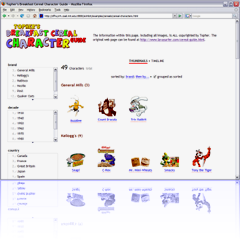
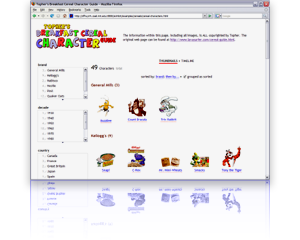
Updated home page. Better shadows and reflections.

diff --git a/src/webapp/index.html b/src/webapp/index.html
@@ -18,7 +18,6 @@
             cursor:         pointer;
         }
         p.example-image {
-            background: url(images/example-shadow.png) top center no-repeat;
         }
     </style>
     <script type="text/javascript">
@@ -30,6 +29,11 @@
                 .getElementsByTagName("img")[0].src =
                     "images/example-" + example + "-" + view + ".png";
         }
+        function onExampleViewClick() {
+            var example = this.getAttribute("example");
+            var href = document.getElementById("example-" + example + "-image").getElementsByTagName("a")[0].href;
+            window.open(href, "_blank");
+        }
         function onLoad() {
             var examples = [ "cereals", "nobelists", "presidents", "publications" ];
             for (var i = 0; i < examples.length; i++) {
@@ -37,6 +41,7 @@
                 var spans = div.getElementsByTagName("span");
                 for (var j = 0; j < spans.length; j++) {
                     spans[j].onmouseover = onExampleViewMouseOver;
+                    spans[j].onclick = onExampleViewClick;
                 }
             }
         }
@@ -72,7 +77,7 @@
     <p>Check out these diverse sample <em>exhibits</em>:</p>
     
     <center style="clear: both">
-        <table width="800" border="0" cellpadding="5" class="examples" style="margin-left: 50px;">
+        <table width="700" border="0" cellpadding="5" class="examples">
             <tr align="center">
                 <td width="50%">
                     <p class="example-heading"><a href="/exhibit/examples/cereals/cereal-characters.html" target="_blank">Breakfast Cereal Characters</a></p>
@@ -96,7 +101,7 @@
                 </td>
             </tr>
         </table>
-        <table width="800" border="0" cellpadding="5" class="examples" style="margin-right: 50px;">
+        <table width="700" border="0" cellpadding="5" class="examples">
             <tr align="center">
                 <td width="50%">
                     <p class="example-heading"><a href="examples/nobelists/nobelists.html" target="_blank">MIT-related Nobel Prize Winners</a></p>
